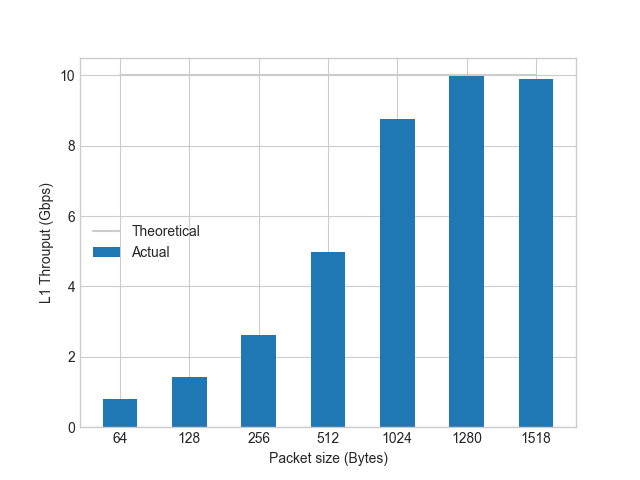
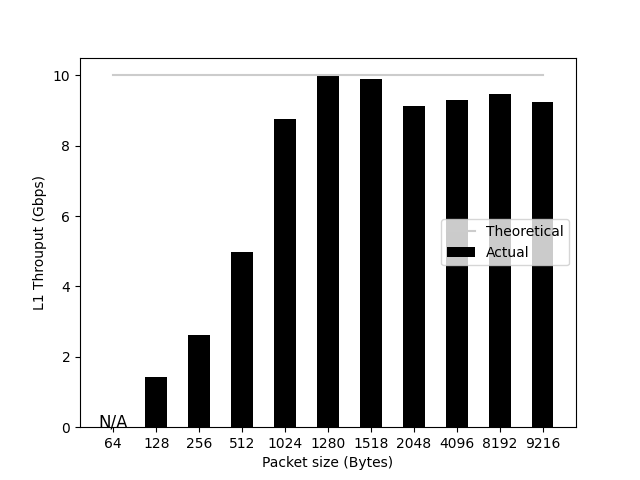
Fix matplotlib theme.

diff --git a/autotrex/plot.py b/autotrex/plot.py
@@ -3,6 +3,8 @@ import datetime
 import os
 import csv
 
+THEME = "grayscale"
+
 
 def get_prefix():
     now = datetime.datetime.now().strftime('%Y%m%d-%H%M%S')
@@ -45,7 +47,7 @@ def plot_L1Gbps(packet_sizes, Mppss, link_speed_bps):
         print(f.read())
 
     plt.clf()
-    plt.style.use('seaborn-whitegrid')
+    plt.style.use(THEME)
     plt.xlabel("Packet size (Bytes)")
     plt.ylabel("L1 Throuput (Gbps)")
     plt.ticklabel_format(style='plain')
@@ -94,7 +96,7 @@ def plot_L2Gbps(packet_sizes, Mppss, link_speed_bps):
         print(f.read())
 
     plt.clf()
-    plt.style.use('seaborn-whitegrid')
+    plt.style.use(THEME)
     plt.xlabel("Packet size (Bytes)")
     plt.ylabel("L2 Throuput (Gbps)")
     plt.ticklabel_format(style='plain')
@@ -136,7 +138,7 @@ def plot_Mpps(packet_sizes, Mppss, link_speed_bps):
         print(f.read())
 
     plt.clf()
-    plt.style.use('seaborn-whitegrid')
+    plt.style.use(THEME)
     plt.xlabel("Packet size (Bytes)")
     plt.ylabel("Packet rate (Mpps)")
     plt.ticklabel_format(style='plain')
